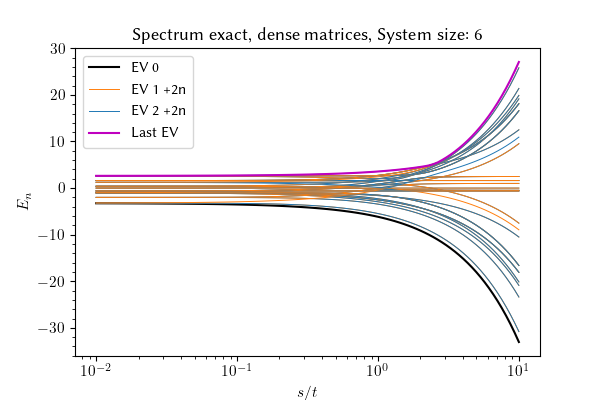
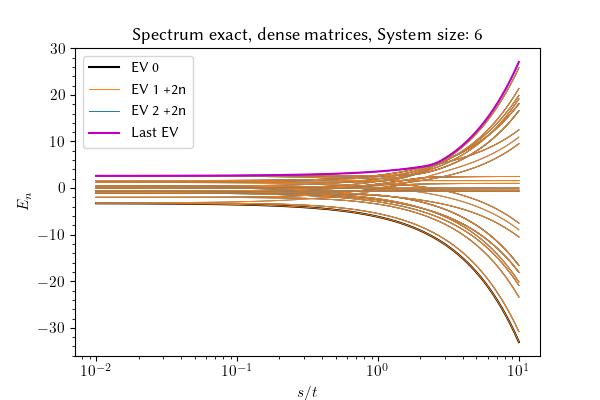
Co-authored-by: Sun Yudong <sunjerry019@users.noreply.github.com>

Changed region(s): [[0.15, 0.18, 0.87, 0.78], [0.84, 0.78, 0.87, 0.84]]

diff --git a/src/main.py b/src/main.py
@@ -18,7 +18,7 @@ class Lattice:
         self.matrix_type = type
         self.L = L
         self.Hamiltonian_manual = np.zeros((L + 1, L + 1))
-        self.Hamiltonian = np.zeros((2 ** (L), 2 ** (L)), dtype=np.complex128)
+        self.Hamiltonian = np.zeros((2 ** (L + 1), 2 ** (L + 1)), dtype=np.complex128)
 
     def build_hamiltonian_manual(self, t: float, s: float) -> None:
         """
@@ -49,7 +49,8 @@ class Lattice:
         expansion func that kroneckers an operator at site j up to the full space
         """
         op = np.kron(np.eye(2**j, 2**j), op)
-        op = np.kron(op, np.eye(2 ** (self.L - j - 1), 2 ** (self.L - j - 1)))
+        op = np.kron(op, np.eye(2 ** (self.L - j), 2 ** (self.L - j)))
+
         return op
 
     def b_down_j(self, j: int) -> np.matrix:
@@ -57,7 +58,6 @@ class Lattice:
         builds full Hilbert space b operator on site j. use .getH() on this b to provide b^dagger
         """
         return self.expand_operator(self.b_down_single(), j)
-        return op
 
     def correlator(self, j: int, l: int) -> np.matrix:
         """
@@ -70,7 +70,9 @@ class Lattice:
         buils Hamiltonian from b operators (which corresponds to S+ S- basis)
         """
         # clear Hamiltonian
-        self.Hamiltonian = np.zeros((2 ** (self.L), 2 ** (self.L)), dtype=np.complex128)
+        self.Hamiltonian = np.zeros(
+            (2 ** (self.L + 1), 2 ** (self.L + 1)), dtype=np.complex128
+        )
 
         for j in range(self.L - 1):
             # PBC
@@ -86,8 +88,8 @@ class Lattice:
                 )
             # center hop part doesnt need any PBC separation
             self.Hamiltonian += -s * (
-                self.b_down_j(j).getH() @ self.b_down_j(self.L - 1)
-                + self.b_down_j(j) @ self.b_down_j(self.L - 1).getH()
+                self.b_down_j(j).getH() @ self.b_down_j(self.L)
+                + self.b_down_j(j) @ self.b_down_j(self.L).getH()
             )
 
     def spectrum(self, type: str, rep: int, shareplot: bool = True) -> None:
@@ -116,19 +118,21 @@ class Lattice:
                     self.build_hamiltonian_ed(t, s=s_t[i] * t)
                     self.Hamiltonian = sp.coo_matrix(self.Hamiltonian)
 
-                    eigs, evectors = sp.linalg.eigsh(self.Hamiltonian)
-                    evals.append(np.real(np.sort(eigs)))
+                    eigs, evectors = sp.linalg.eigsh(
+                        self.Hamiltonian, which="SM", k=self.Hamiltonian.shape[0] - 2
+                    )
+                    evals.append(eigs)
 
                     self.Hamiltonian = self.Hamiltonian.toarray()
                 evals = np.array(evals)
             # scipy.sparse
             elif self.matrix_type == "dense":
-                evals = np.ndarray((len(s_t), 2**self.L))
+                evals = np.ndarray((len(s_t), 2 ** (self.L + 1)))
                 for i in range(len(s_t)):
                     self.build_hamiltonian_ed(t, s=s_t[i] * t)
                     evals[i] = np.real(np.sort(np.linalg.eigvalsh(self.Hamiltonian)))
             else:
-                    raise Exception("matrix_type can either be `dense` or `sparse`")
+                raise Exception("matrix_type can either be `dense` or `sparse`")
         else:
             raise Exception("type can either be `manual` or `exact`")
 
@@ -229,102 +233,155 @@ class Lattice:
         """
         provides plot for d)
         """
-        assert self.L >= 3, "L should be larger than 2 for reasonable result"
         # stores initial L value
         L_init = self.L
         # prepare plot
-        G = Plotter(figsize=(6, 4), nrows=1, ncols=1)
+        G = Plotter(figsize=(6, 12), nrows=2, ncols=1)
         rho_values = []
         # storage for the cond frac of this L
         n_0N_frac = []
         # Now loops over all L up to the L that the class was initiated with
-        for L in range(1,L_init + 1):
-            if L % 2 !=0:
-                # adjust number of sites
-                self.__init__(L, self.matrix_type)
-                # values of t and s for plot
-                t = 1
-                s_t = np.power(10, np.linspace(start=-3, stop=1, num=200))
-                # get pho for every values of s(t)
-                for i in range(len(s_t)):
-                    rho = np.ndarray((self.L, self.L))
-                    self.build_hamiltonian_ed(t=t, s=s_t[i] * t)
+        for L in range(1, L_init + 1):
+            # adjust number of sites
+            self.__init__(L, self.matrix_type)
+            # values of t and s for plot
+            t = 1
+            s_t = np.power(10, np.linspace(start=-3, stop=1, num=200))
+            # get pho for every values of s(t)
+            for i in range(len(s_t)):
+                rho = np.ndarray((self.L, self.L))
+                self.build_hamiltonian_ed(t=t, s=s_t[i] * t)
 
-                    if self.matrix_type == "sparse":
-                        self.Hamiltonian = sp.coo_matrix(self.Hamiltonian)
-                        evalues, evectors = sp.linalg.eigsh(self.Hamiltonian)
-                        self.Hamiltonian = self.Hamiltonian.toarray
+                if self.matrix_type == "sparse":
+                    self.Hamiltonian = sp.coo_matrix(self.Hamiltonian)
+                    evalues, evectors = sp.linalg.eigsh(self.Hamiltonian)
+                    self.Hamiltonian = self.Hamiltonian.toarray
 
-                    elif self.matrix_type == "dense":
-                        evalues, evectors = np.linalg.eig(self.Hamiltonian)
+                elif self.matrix_type == "dense":
+                    evalues, evectors = np.linalg.eig(self.Hamiltonian)
 
-                    else:
-                        raise Exception("matrix_type can either be `dense` or `sparse`")
+                else:
+                    raise Exception("matrix_type can either be `dense` or `sparse`")
 
-                    # get ground state of Hamiltonian
-                    ground = evectors[:, np.where(evalues == min(evalues))][:, :, 0]
-                    
+                # get ground state of Hamiltonian
+                ground = evectors[:, np.where(evalues == min(evalues))][:, :, 0]
 
-                    # fill rho matrix for this s(t)
-                    for j in range(self.L):
-                        for l in range(self.L):
-                            corr = self.correlator(j,l)
-                            p = ground.conj().T @ corr @ ground
-                            rho[j][l] = np.real(p[0, 0])
+                # fill rho matrix for this s(t)
+                for j in range(self.L):
+                    for l in range(self.L):
+                        corr = self.correlator(j, l)
+                        p = ground.conj().T @ corr @ ground
+                        rho[j][l] = np.real(p[0, 0])
 
-                    # get rho evals
-                    evalues_rho = np.linalg.eigvals(rho)
-                    # get N
-                    N = np.round(np.trace(rho))
-                    # store and sort N/L = rho values to determine list of uniquely reoccuring rhos
-                    rho_values = np.append(rho_values,N/L)
-                    rho_values = np.sort(np.unique(rho_values))
-                    # store s_t, condensation fraction, rho, L
-                    N,L = np.real(N), np.real(L)
-                    n_0N_frac.append([s_t[i], max(evalues_rho) / N, N/L,L])
-                    # colormap for the rhos
-                    colors = [
+                # get rho evals
+                evalues_rho = np.linalg.eigvals(rho)
+                print(np.allclose(rho, np.diag(evalues_rho)))
+                print(rho)
+                print(evalues_rho)
+                # get N
+                N = np.round(np.trace(rho))
+                # store and sort N/L = rho values to determine list of uniquely reoccuring rhos
+                rho_values = np.append(rho_values, N / L)
+                rho_values = np.sort(np.unique(rho_values))
+                # store s_t, condensation fraction, rho, L
+                N, L = np.real(N), np.real(L)
+                n_0N_frac.append([s_t[i], max(evalues_rho) / N, N / L, L])
+                # colormap for the rhos
+                colors = [
                     mcolors.TABLEAU_COLORS[str(a)] for a in mcolors.TABLEAU_COLORS
-                    ]
+                ]
         n_0N_frac = np.array(n_0N_frac)
+        # keep track of the rhos already plotted with legend
+        L_already_labeled = []
         # keep track of the rhos already plotted with legend
         rho_already_labeled = []
         # plot condensation frac against s_t and color according to rho
         for x in n_0N_frac:
-            # label with rho and L values and choose new color if rho is new
-            if x[2] not in rho_already_labeled:
-                x = np.real(x)
-                G.ax.scatter(x[0], x[1], s=3, label=r"$\rho$ = %.3f" % (x[2]) +f", L = {int(x[3])}", color = colors[np.where(rho_values == x[2])[0][0]])
-                rho_already_labeled.append(x[2])
-            # plot unlabeled if rho already appeared
+            # odd L's
+
+            if np.real(x[3]) % 2 != 0:
+                # label with rho and L values and choose new color if rho is new
+                if x[2] not in rho_already_labeled:
+                    x = np.real(x)
+                    G.ax[0].scatter(
+                        x[0],
+                        x[1],
+                        s=3,
+                        label=r"$\rho$ = %.3f" % (x[2]) + f", L = {int(x[3])}",
+                        color=colors[np.where(rho_values == x[2])[0][0]],
+                    )
+                    rho_already_labeled.append(x[2])
+                # plot unlabeled if rho already appeared
+                else:
+                    G.ax[0].scatter(
+                        x[0],
+                        x[1],
+                        s=3,
+                        color=colors[np.where(rho_values == x[2])[0][0]],
+                    )
+            # even L's
             else:
-                G.ax.scatter(x[0], x[1], s=3, color = colors[np.where(rho_values == x[2])[0][0]])
-        
+                # label with rho and L values and choose new color if rho is new
+                if x[3] not in L_already_labeled:
+                    x = np.real(x)
+                    G.ax[1].scatter(
+                        x[0],
+                        x[1],
+                        s=3,
+                        label=r"$\rho$ = %.3f" % (x[2]) + f", L = {int(x[3])}",
+                        color=colors[int(x[3])],
+                    )
+                    L_already_labeled.append(x[3])
+                # plot unlabeled if rho already appeared
+                else:
+                    G.ax[1].scatter(
+                        x[0],
+                        x[1],
+                        s=3,
+                        color=colors[int(x[3])],
+                    )
 
         # Plotting
-        G.ax.set_xscale("log")
-        G.ax.set_ylim(0, 1)
-        G.ax.set_title(
-            r"Condensate fraction $\frac{n_0}{N}$ with "
-            + str(self.matrix_type)
-            + " matrices"
-        )
-        G.ax.set_xlabel(r"$s/t$")
-        G.ax.set_ylabel(r"$\frac{n_0}{N}$")
-        G.ax.legend()
+        for i in range(2):
+            G.ax[i].set_xscale("log")
+            G.ax[i].set_ylim(0, 1)
+            G.ax[i].set_title(
+                r"Condensate fraction $\frac{n_0}{N}$ with "
+                + str(self.matrix_type)
+                + " matrices"
+            )
+            G.ax[i].set_xlabel(r"$s/t$")
+            G.ax[i].set_ylabel(r"$\frac{n_0}{N}$")
+            G.ax[i].legend()
         G.savefig(os.path.join(HOME_FOLDER, "..", "plots", "condensate_fraction.png"))
         # revert to original L just for safety
         self.__init__(L_init, self.matrix_type)
 
 
 if __name__ == "__main__":
-    L = 13
+    L = 6
     # "dense" uses ndarray, "sparse" uses scipy.sparse.coo_matrix
     test = Lattice(L, "dense")
 
     # "manual" gives the a) spectrum, anything else gives the c) spectrum
     # the integer input determines after what number of EV's the color scheme repeats, i.e. 2 means that the even and odd EV's are colored alike
-    
-    #test.spectrum("manual", 2, True)
-    #test.spectrum("exact", 2, True)
-    test.condensate_frac()
+
+    test.spectrum("manual", 2, True)
+    test.spectrum("exact", 2, True)
+    # test.condensate_frac()
+
+    def fock_to_product_state(statestring: list):
+        zero = np.array([1, 0])
+        one = np.array([0, 1])
+
+        statevectors = [zero, one]
+
+        state = statevectors[statestring[0]]
+        L = len(statestring)
+        for i in range(1, L):
+            state = np.kron(state, statevectors[statestring[i]])
+
+        return state
+
+    print(np.real(test.b_down_j(0).getH() @ fock_to_product_state([0, 0, 0])))
+    print(fock_to_product_state([1, 0, 0]))
